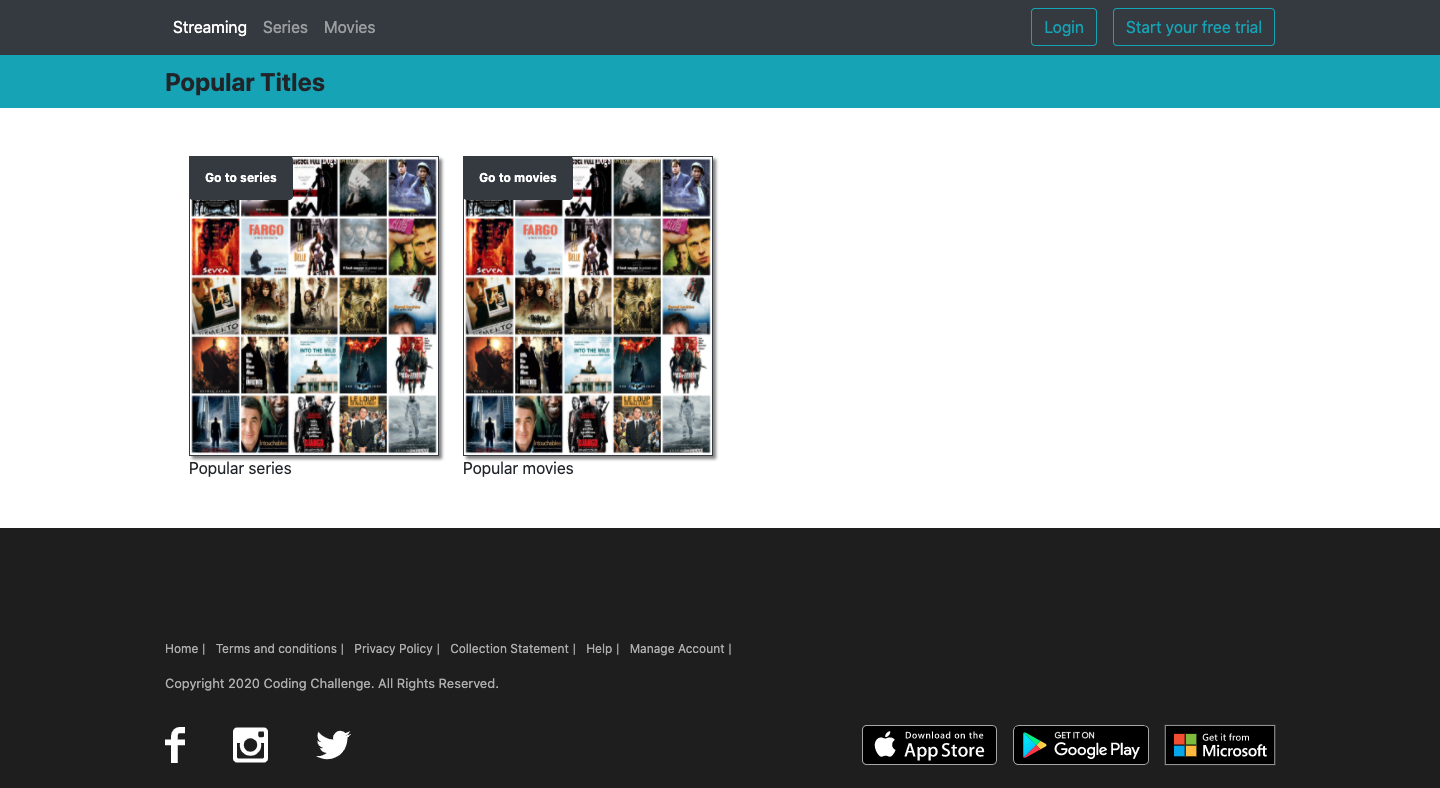
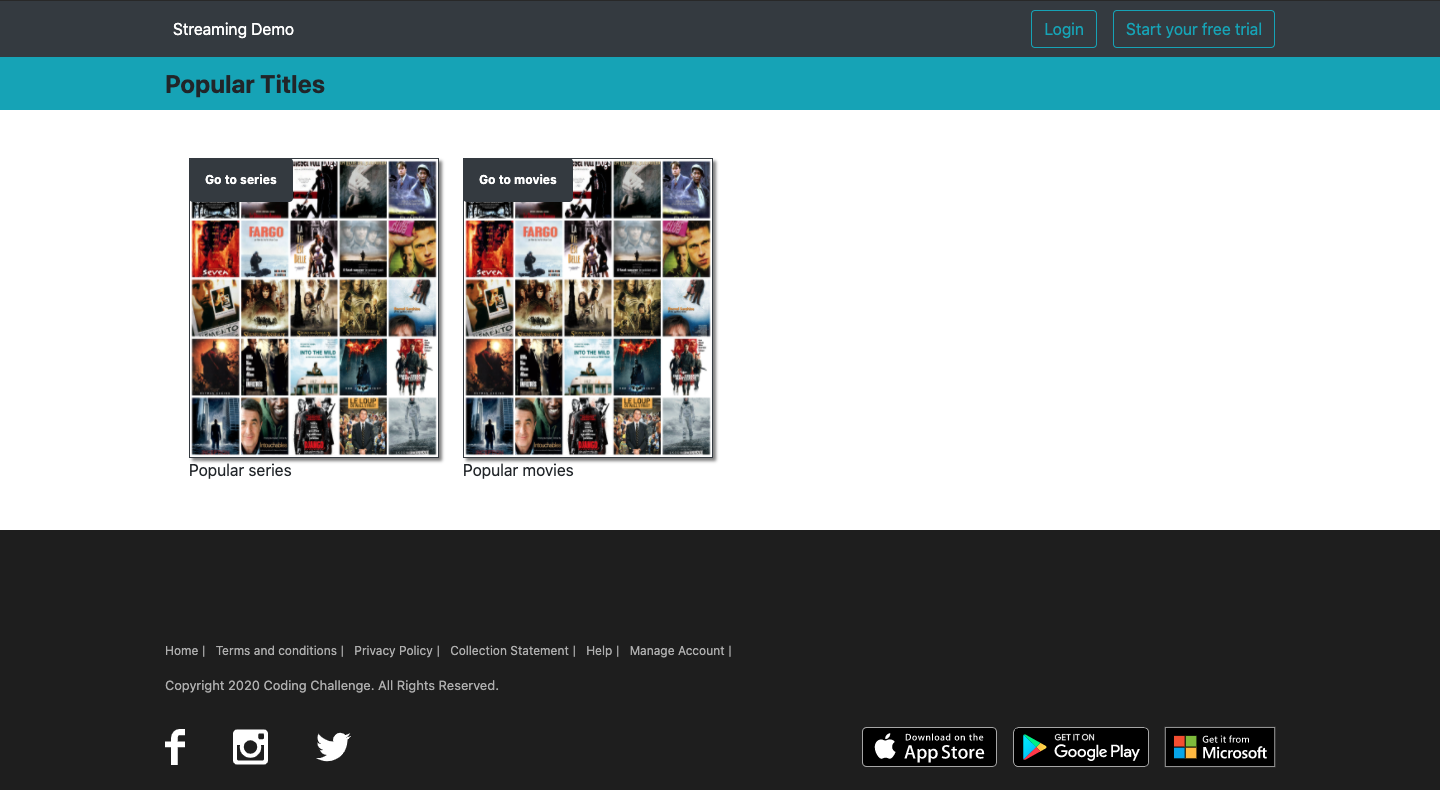
images node react replaced

diff --git a/react_stream/src/components/Navbar.js b/react_stream/src/components/Navbar.js
@@ -7,14 +7,14 @@ const Navbar = () => {
             <div className="container">
             <ul className="navbar-nav">
                 <li className="nav-item active">
-                    <Link to="/" className="nav-link linkSize">Streaming</Link>
+                    <Link to="/" className="nav-link linkSize">Streaming Demo</Link>
                 </li>
-                <li className="nav-item">
+                {/* <li className="nav-item">
                     <Link to="/series" className="nav-link linkSize">Series</Link>
                 </li>
                 <li className="nav-item">
                     <Link to="/movies" className="nav-link linkSize">Movies</Link>
-                </li>
+                </li> */}
                 {/* <li className="nav-item">
                     <Link to="/update" className="nav-link">Mettre à jour</Link>
                 </li> */}
